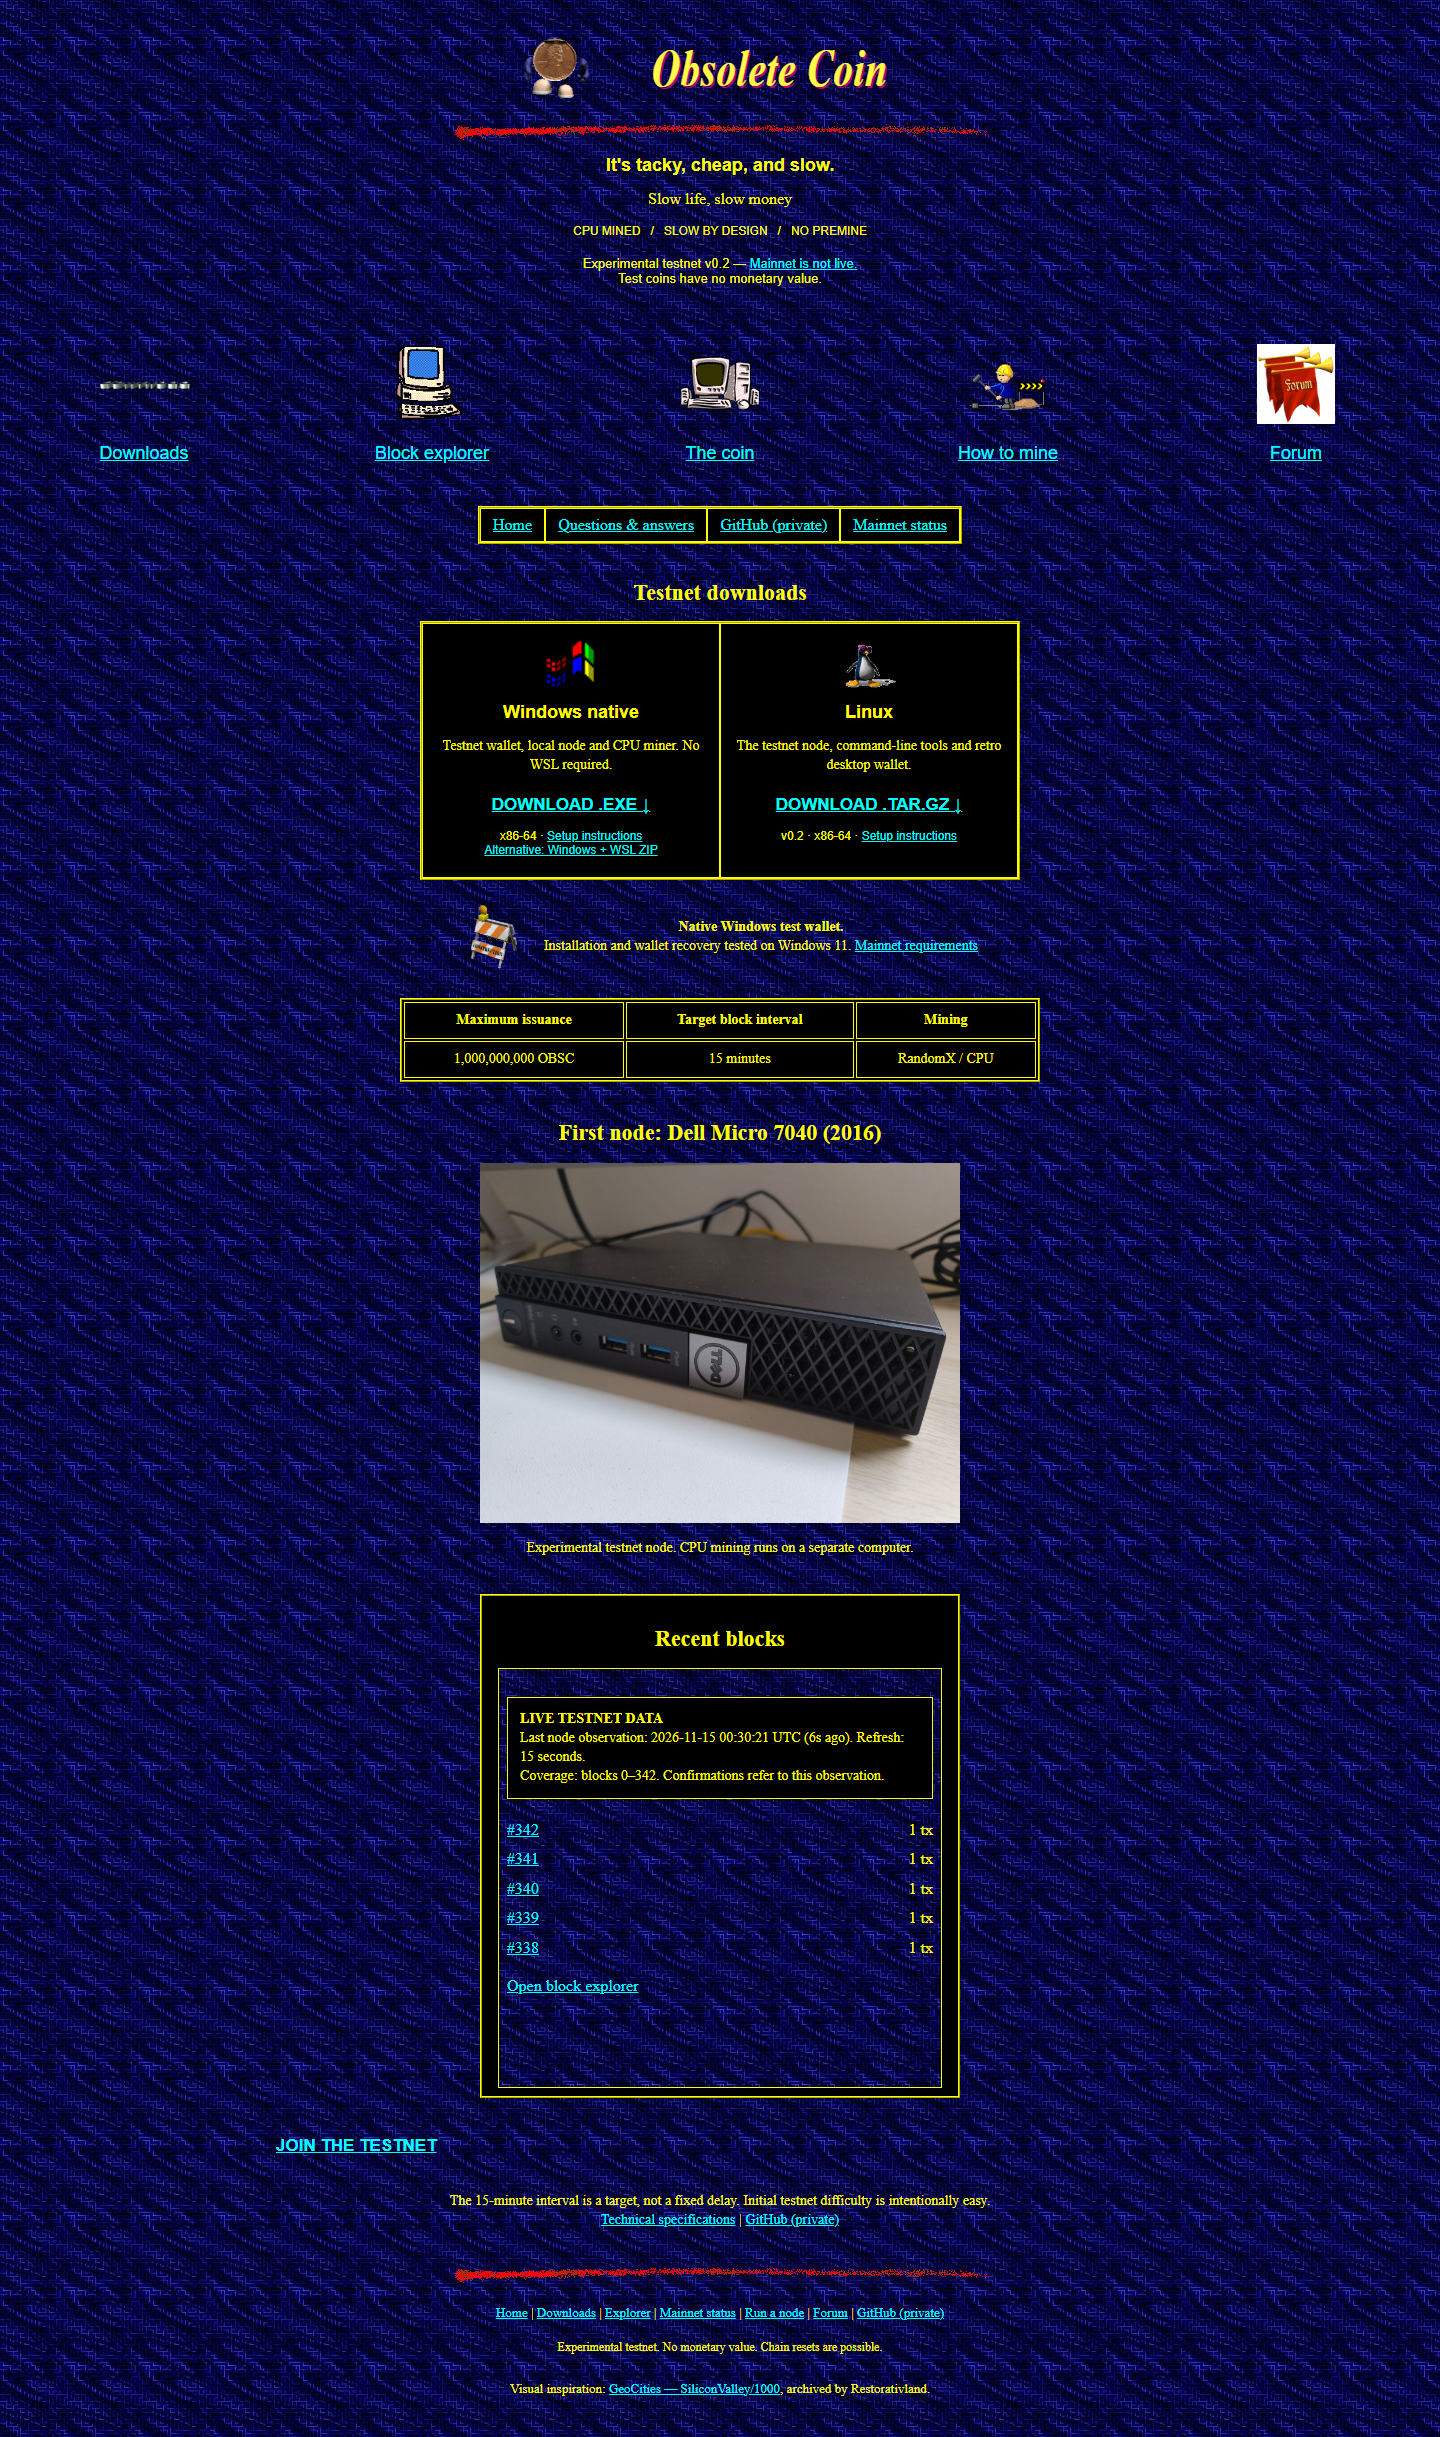
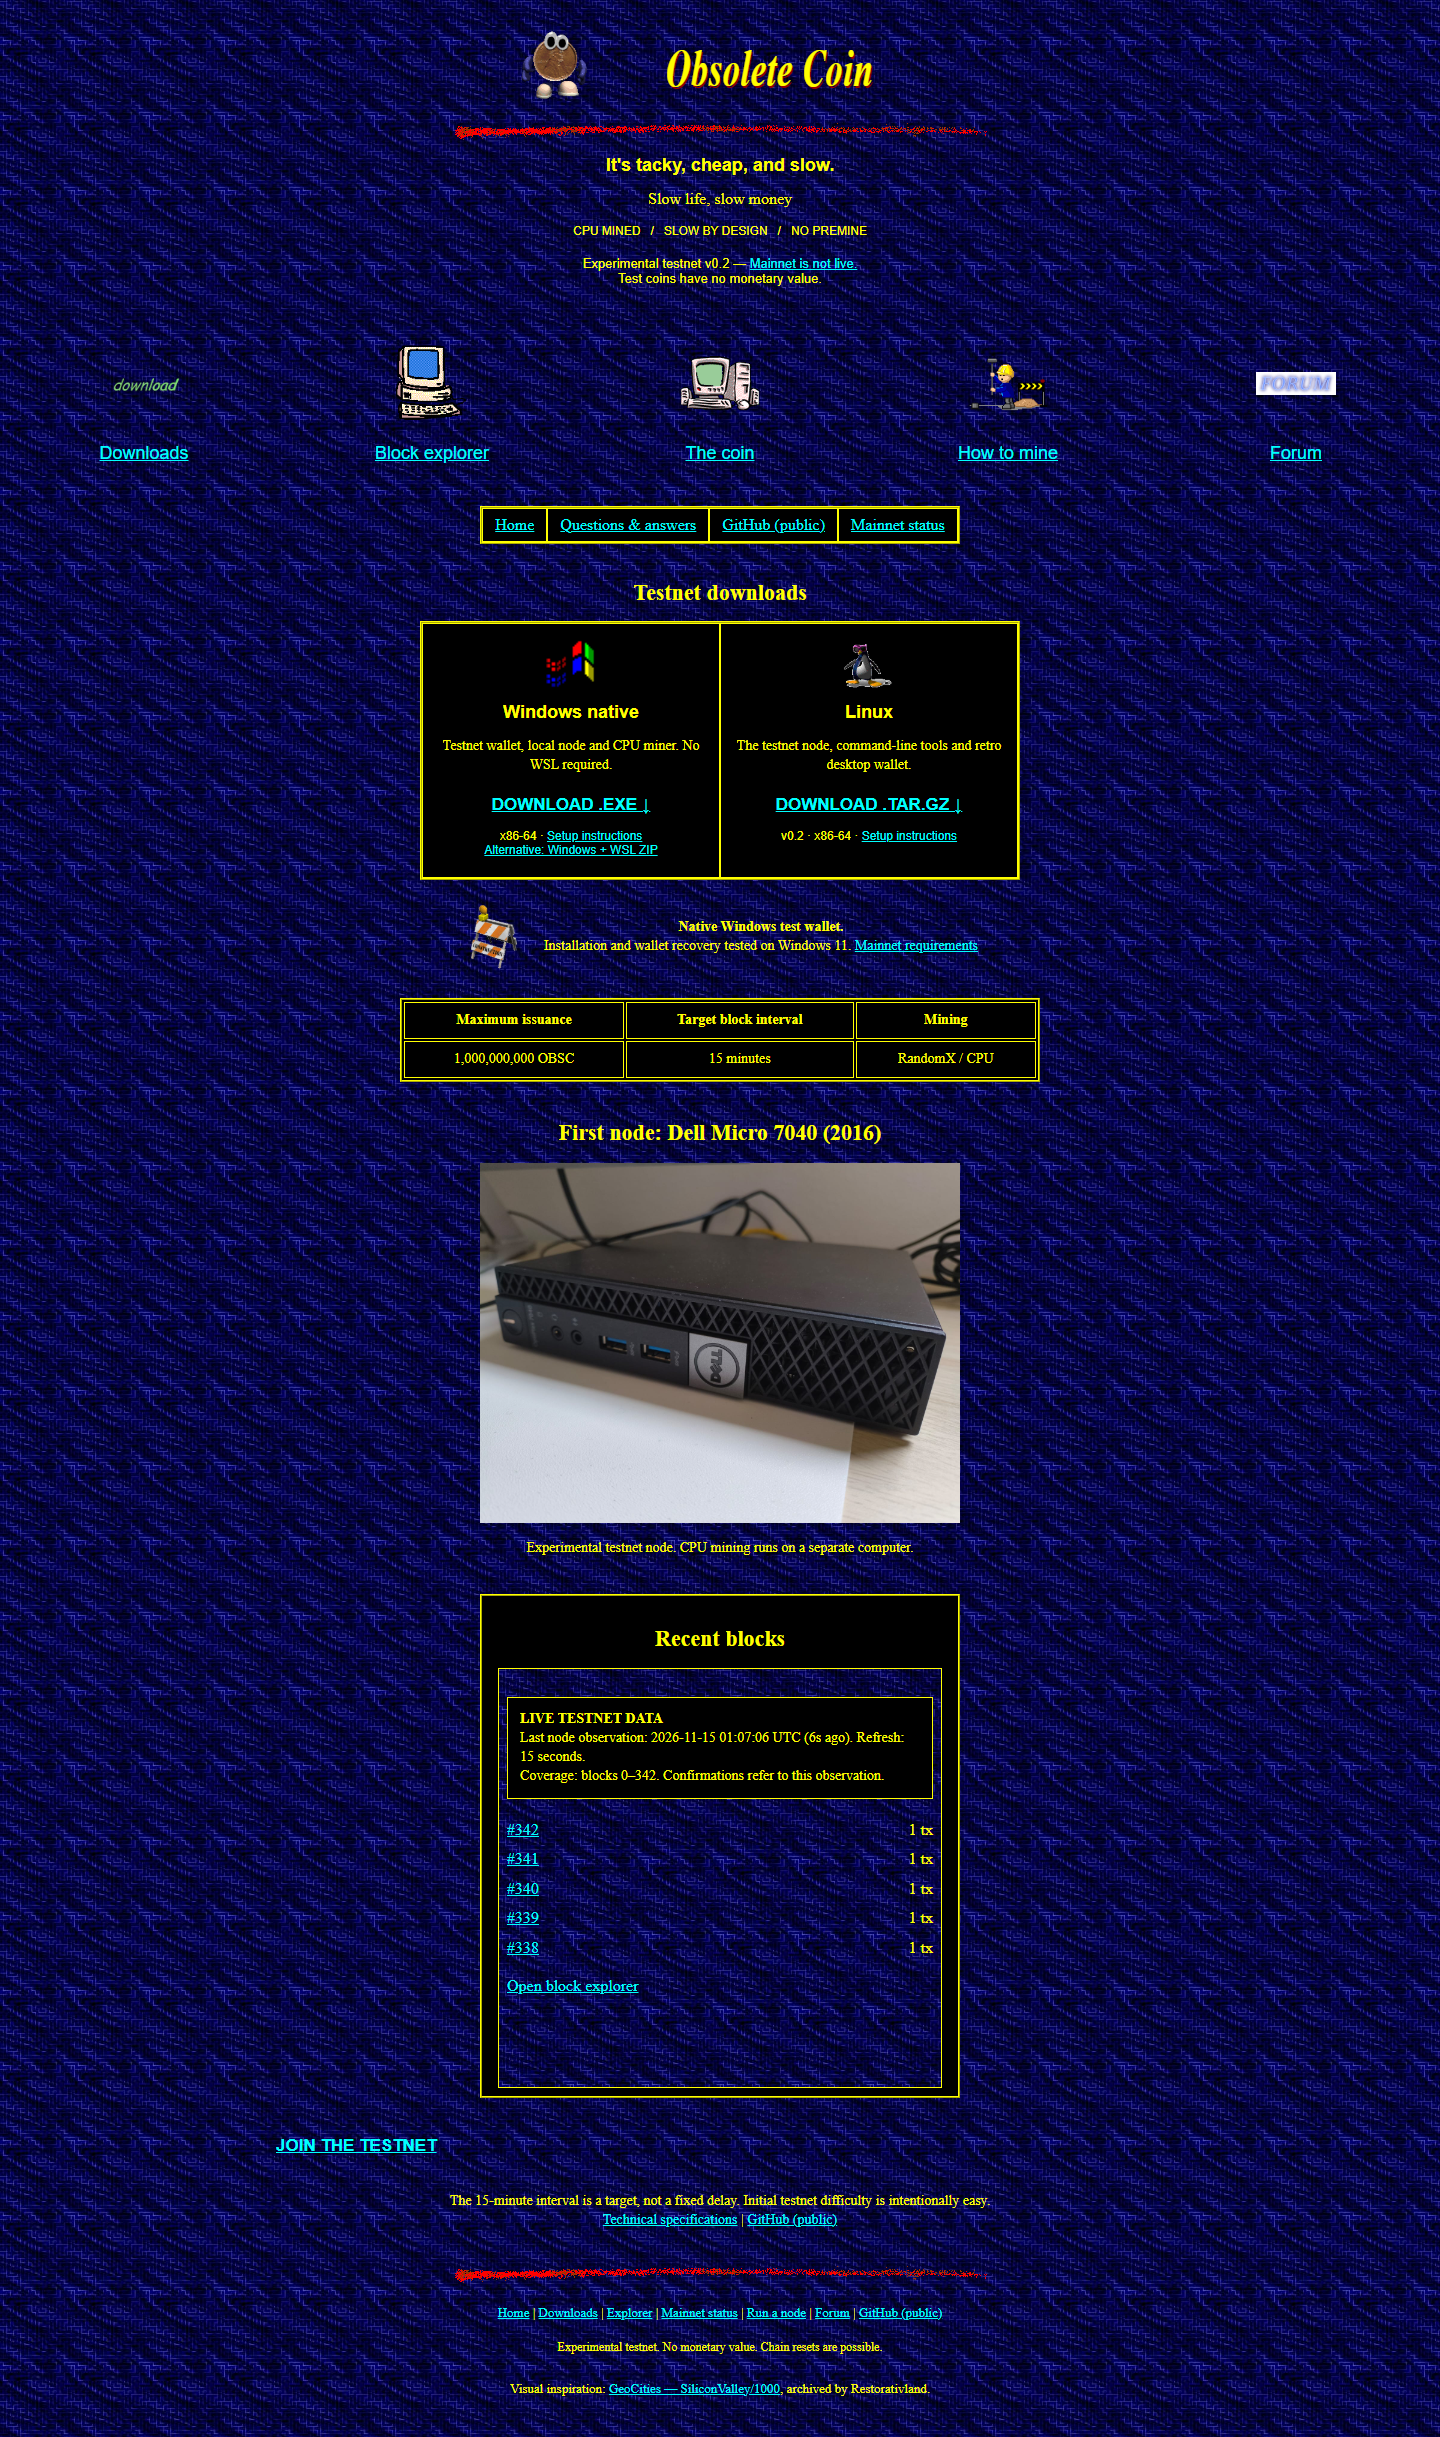
Record verified public repository and live network dashboard [skip ci]

diff --git a/docs/readiness/2026-11-15-network/README.md b/docs/readiness/2026-11-15-network/README.md
@@ -32,3 +32,19 @@ in an ignored local backup. Old readiness records retain their historical meanin
 but personal endpoints are now documentation examples. Original commit IDs may
 change; published packages are still identified by their unchanged SHA-256 hashes.
 The draft release is not published by changing repository visibility.
+
+
+## Publication verified
+
+GitHub is public and its metadata was verified anonymously. The source history was
+checked after redaction; 24 commit IDs changed while the reviewed current tree was
+preserved. Eleven older CI packages containing the identified personal references
+were retired only after their private backups matched GitHub's SHA-256 digests.
+The workflow logs and remaining artifacts were retained. Public distribution files
+are unchanged by this source-history cleanup.
+
+Cloudflare serves the new network panel, replacement forum GIF and coin favicon.
+Anonymous Chrome checks passed on desktop and mobile with JavaScript disabled.
+The first production observation covered blocks 0 through 342; the 672-block
+window is correctly marked partial. The Dell reported zero peer connections at
+that observation; this is not a claim that the whole network has no miners.

diff --git a/README.md b/README.md
@@ -8,7 +8,7 @@ It's tacky, cheap, and slow.
 [Wallet downloads](https://obsoletecoin.pages.dev/downloads.html) ·
 [Join the testnet](https://obsoletecoin.pages.dev/join.html) ·
 [Explorer](https://obsoletecoin.pages.dev/explorer/index.html) ·
-[Network statistics](https://obsoletecoin.pages.dev/explorer/network.html) ?
+[Network statistics](https://obsoletecoin.pages.dev/explorer/network.html) ·
 [Forum](https://obsoletecoin.pages.dev/forum) ·
 [Run a node](https://obsoletecoin.pages.dev/nodes.html)
 
